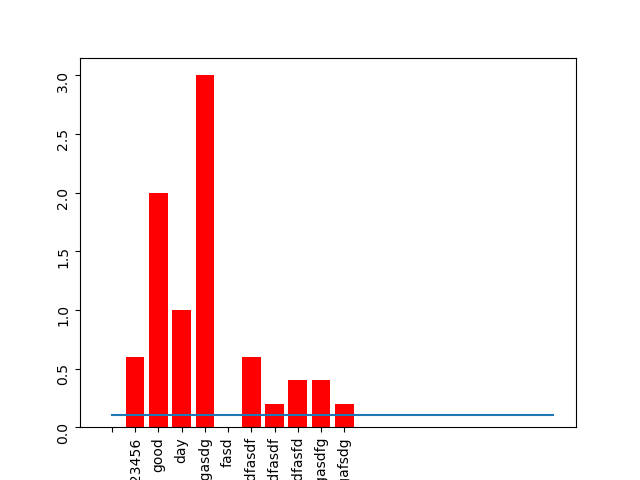
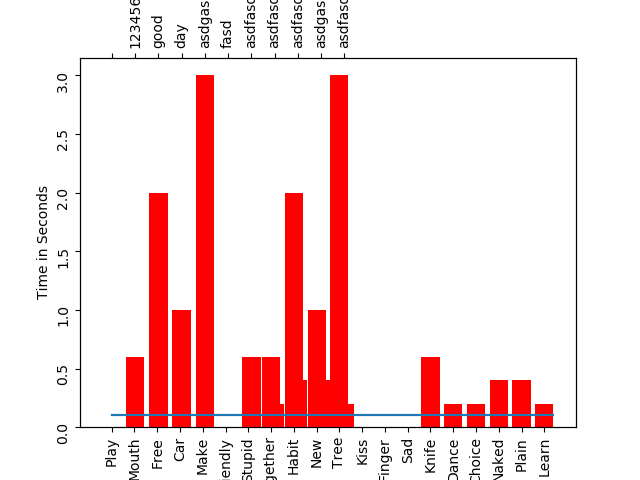
Graph_Added

Changed region(s): [[0.1562, 0.1562, 0.875, 1.0], [0.1875, 0.0, 0.5625, 0.125], [0.0625, 0.375, 0.0938, 0.625]]

diff --git a/32_GUI_with_PyQt5/WAT_V1.1/WAT/menuDashboard.py b/32_GUI_with_PyQt5/WAT_V1.1/WAT/menuDashboard.py
@@ -262,20 +262,33 @@ class menuDashboard_Handler(object): #TODO
                         Colors2[i] = "red"
                 
                 y = [self.reportConfig["ROUND1"]["MEDIAN_PRT"]]*len(Domain_S_WORDS)
-                plt.bar(Domain_RESPONSE, Height_ROUND1, color=Colors1)
-                plt.plot(range(len(Domain_S_WORDS)),y)
+                fig, ax1 = plt.subplots()
+                ax1.bar(Domain_S_WORDS, Height_ROUND1, color=Colors1)
+                plt.xticks(rotation=90)
+                plt.yticks(rotation=90)               
+                ax2 = ax1.twiny()
+                ax2.bar(Domain_RESPONSE, Height_ROUND1, color=Colors1)
                 plt.xticks(rotation=90)
                 plt.yticks(rotation=90)
+                ax1.plot(range(len(Domain_S_WORDS)),y)
+                ax2.plot(range(len(Domain_S_WORDS)),y)
+                ax1.set_ylabel("Time in Seconds")
                 plt.savefig(ABS_Path[:-4]+"Graph_Round1"+ABS_Path[-4:])
                 
                 #plt.clear()
                 if self.ui.DEBUG_MODE:
                     print("Plot1 End")
-                
-                plt.bar(Domain_REPRODUCTION, Height_ROUND2, color=Colors2)
-                plt.plot(range(len(Domain_S_WORDS)),y)
+                fig, Ax1 = plt.subplots()
+                Ax1.bar(Domain_S_WORDS, Height_ROUND2, color=Colors2)
                 plt.xticks(rotation=90)
                 plt.yticks(rotation=90)
+                Ax2 = Ax1.twiny()
+                Ax2.bar(Domain_REPRODUCTION,Height_ROUND2, color=Colors2)
+                plt.xticks(rotation=90)
+                plt.yticks(rotation=90)
+                Ax1.plot(range(len(Domain_S_WORDS)),y)
+                Ax2.plot(range(len(Domain_S_WORDS)),y)
+                Ax1.set_ylabel("Time in Seconds")
                 plt.savefig(ABS_Path[:-4]+"Graph_Round2"+ABS_Path[-4:])
                 if self.ui.DEBUG_MODE:
                     print("Plot2 End")
